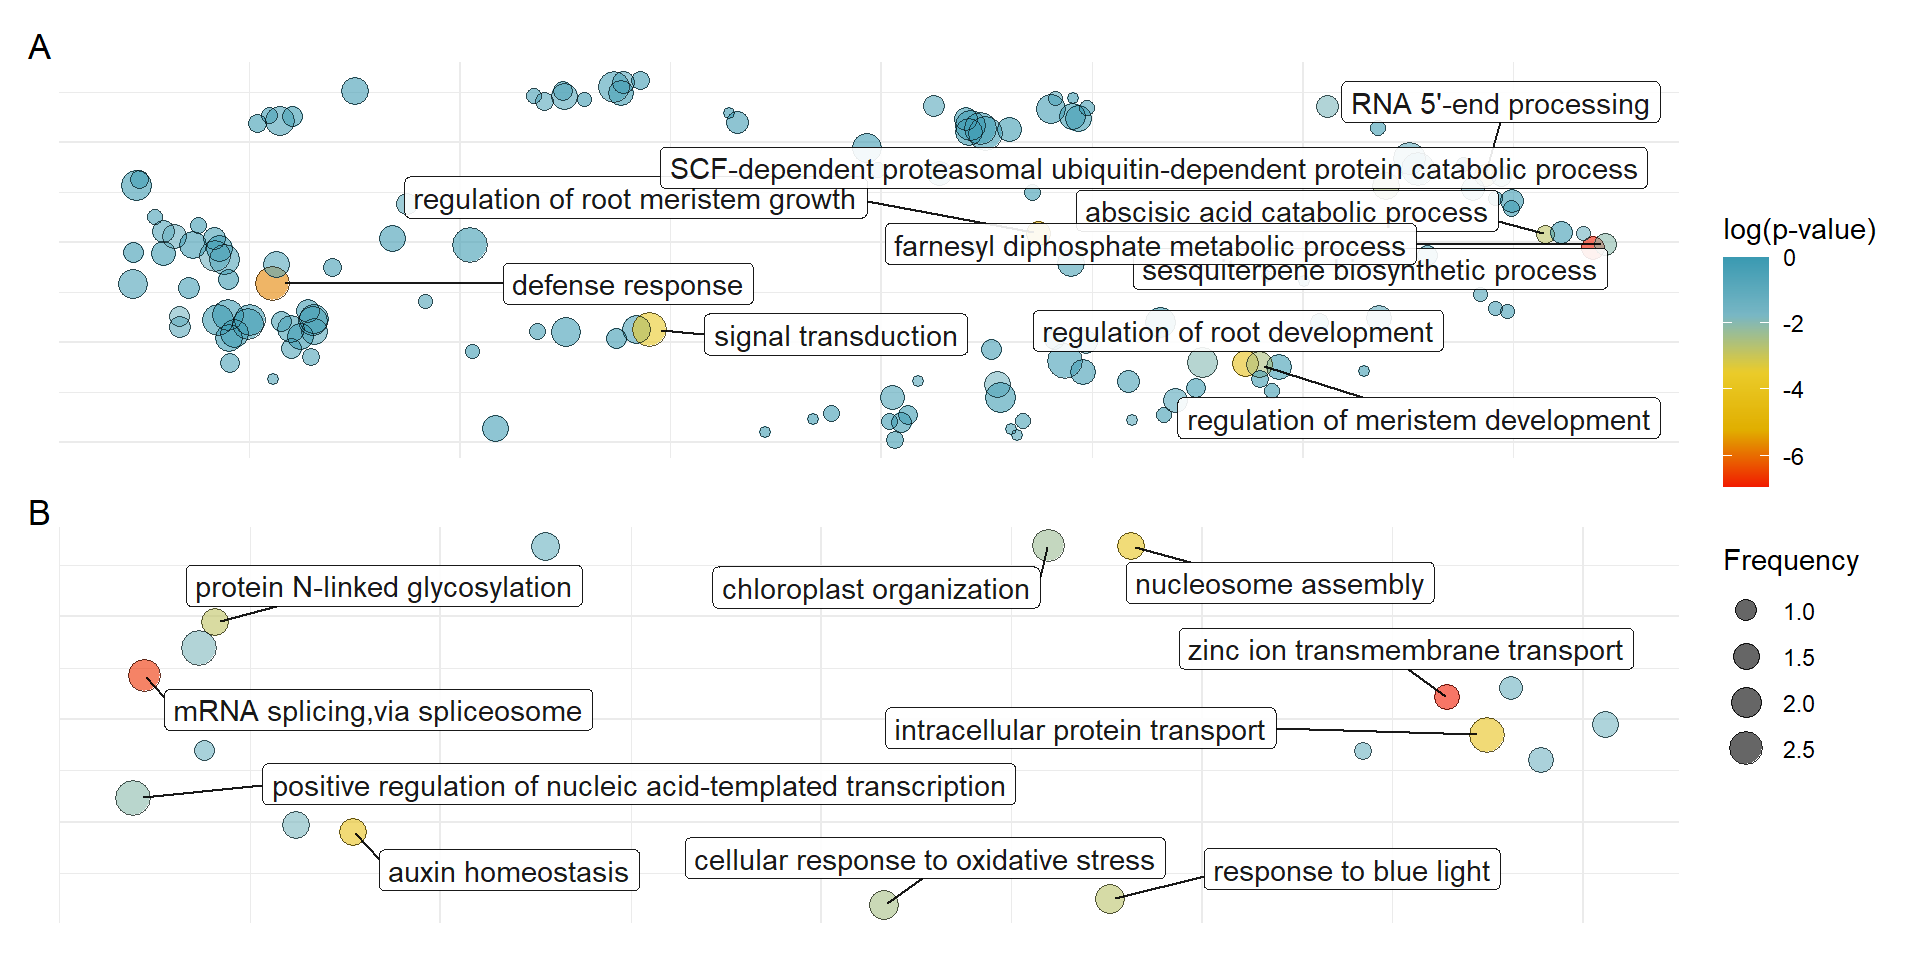
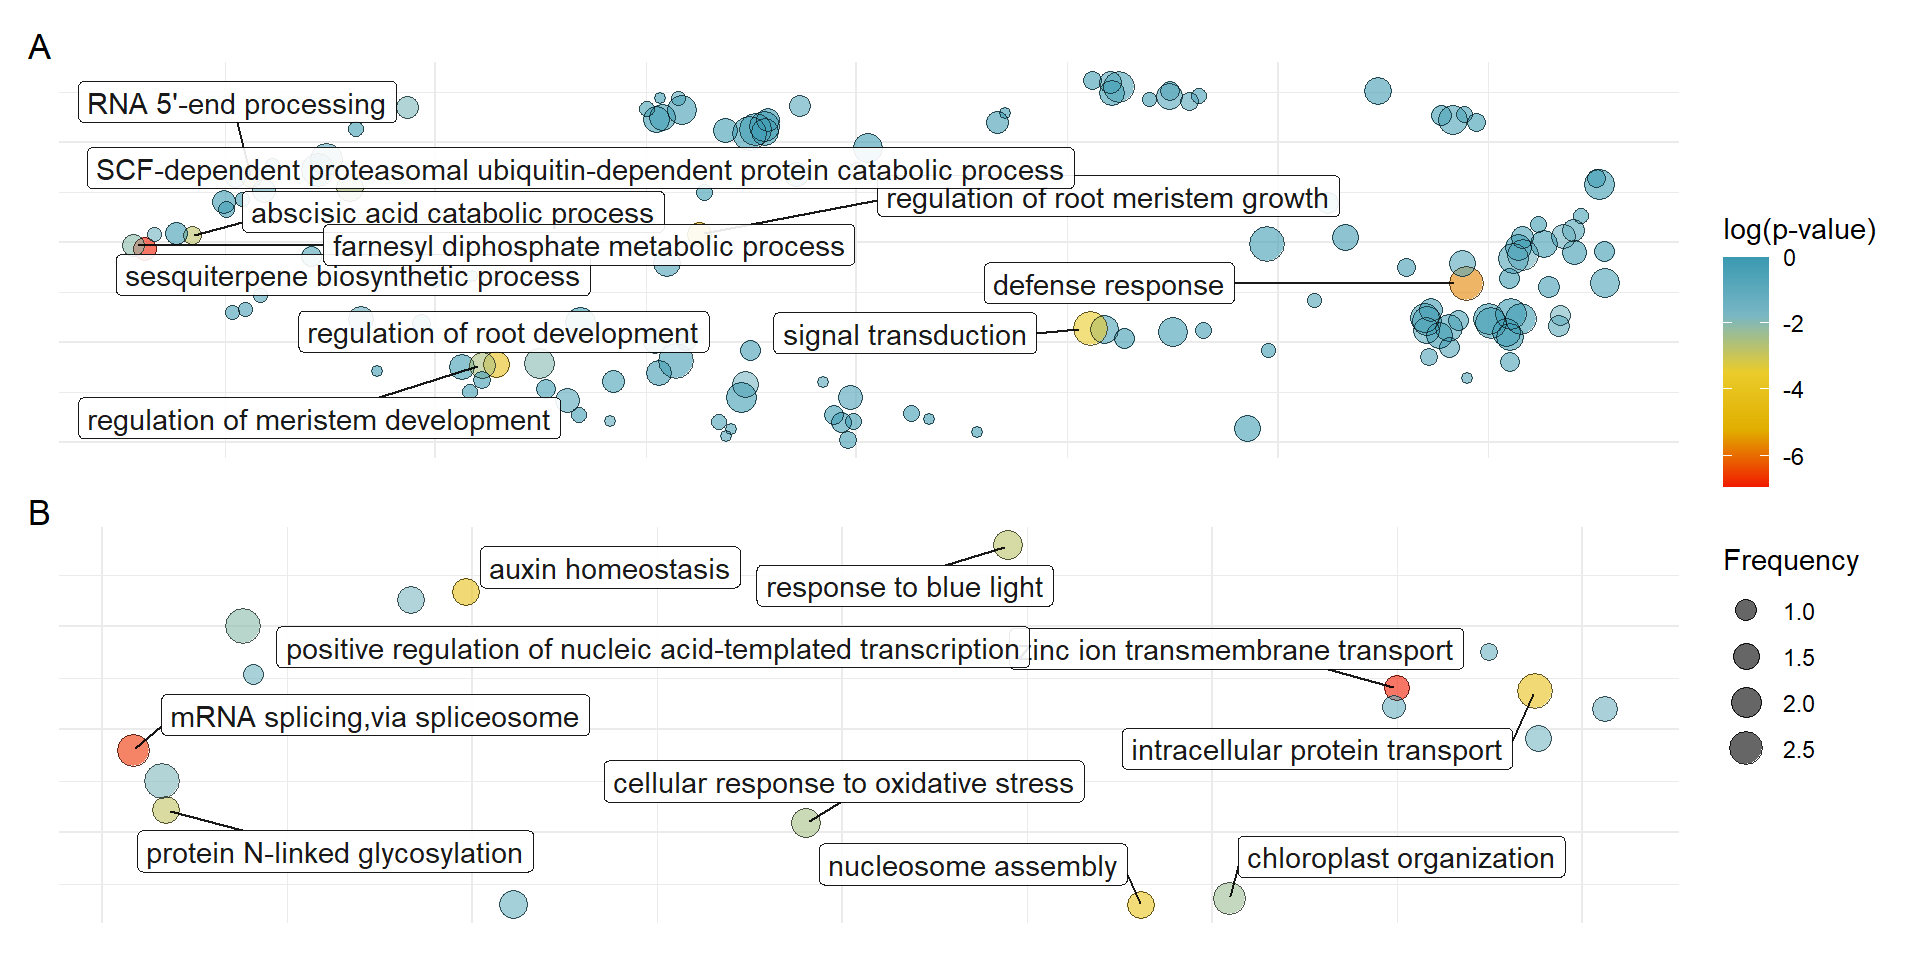
Build site.

Changed region(s): [[0.0312, 0.0625, 0.875, 0.4688], [0.0625, 0.5312, 0.8438, 0.9688]]

diff --git a/docs/GOenrichment.html b/docs/GOenrichment.html
@@ -385,7 +385,7 @@ div.tocify {
 <div class="tab-content">
 <div id="summary" class="tab-pane fade in active">
 <p>
-<strong>Last updated:</strong> 2022-02-25
+<strong>Last updated:</strong> 2022-02-28
 </p>
 <p>
 <strong>Checks:</strong> <span class="glyphicon glyphicon-ok text-success" aria-hidden="true"></span> 7 <span class="glyphicon glyphicon-exclamation-sign text-danger" aria-hidden="true"></span> 0
@@ -476,16 +476,16 @@ This reproducible <a href="http://rmarkdown.rstudio.com">R Markdown</a> analysis
 <div class="panel panel-default">
 <div class="panel-heading">
 <p class="panel-title">
-<a data-toggle="collapse" data-parent="#workflowr-checks" href="#strongRepositoryversionstrongahrefhttpsgithubcomphilippbayerAmphibolisPosidoniaComparisontree61c8f69445812d93a875620f86f58b0b40fb9e50targetblank61c8f69a"> <span class="glyphicon glyphicon-ok text-success" aria-hidden="true"></span> <strong>Repository version:</strong> <a href="https://github.com/philippbayer/Amphibolis_Posidonia_Comparison/tree/61c8f69445812d93a875620f86f58b0b40fb9e50" target="_blank">61c8f69</a> </a>
+<a data-toggle="collapse" data-parent="#workflowr-checks" href="#strongRepositoryversionstrongahrefhttpsgithubcomphilippbayerAmphibolisPosidoniaComparisontree581bebd80bed6cea5ebeefd7b3b988ae88ad7d66targetblank581bebda"> <span class="glyphicon glyphicon-ok text-success" aria-hidden="true"></span> <strong>Repository version:</strong> <a href="https://github.com/philippbayer/Amphibolis_Posidonia_Comparison/tree/581bebd80bed6cea5ebeefd7b3b988ae88ad7d66" target="_blank">581bebd</a> </a>
 </p>
 </div>
[2 lines of base64/hex data omitted]
 <div class="panel-body">
 <p>
 Great! You are using Git for version control. Tracking code development and connecting the code version to the results is critical for reproducibility.
 </p>
 <p>
-The results in this page were generated with repository version <a href="https://github.com/philippbayer/Amphibolis_Posidonia_Comparison/tree/61c8f69445812d93a875620f86f58b0b40fb9e50" target="_blank">61c8f69</a>. See the <em>Past versions</em> tab to see a history of the changes made to the R Markdown and HTML files.
+The results in this page were generated with repository version <a href="https://github.com/philippbayer/Amphibolis_Posidonia_Comparison/tree/581bebd80bed6cea5ebeefd7b3b988ae88ad7d66" target="_blank">581bebd</a>. See the <em>Past versions</em> tab to see a history of the changes made to the R Markdown and HTML files.
 </p>
 <p>
 Note that you need to be careful to ensure that all relevant files for the analysis have been committed to Git prior to generating the results (you can use <code>wflow_publish</code> or <code>wflow_git_commit</code>). workflowr only checks the R Markdown file, but you know if there are other scripts or data files that it depends on. Below is the status of the Git repository when the results were generated:
@@ -496,63 +496,6 @@ Ignored files:
     Ignored:    .Rproj.user/
     Ignored:    analysis/OTT.nb.html
     Ignored:    analysis/plotRgenes.nb.html
-
-Untracked files:
-    Untracked:  output/GO_results_genes_in_Aquatics_NOT_Seagrasses_NOT_Terrestrials.csv
-    Untracked:  output/GO_results_genes_in_Aquatics_NOT_Seagrasses_NOT_Terrestrials.csv.png
-    Untracked:  output/GO_results_genes_in_Aquatics_and_Seagrasses_NOT_Terrestrials.csv
-    Untracked:  output/GO_results_genes_in_Aquatics_and_Seagrasses_NOT_Terrestrials.csv.png
-    Untracked:  output/GO_results_genes_in_Seagrasses_NOT_Aquatics_NOT_Terrestrials.csv
-    Untracked:  output/GO_results_genes_in_Seagrasses_NOT_Aquatics_NOT_Terrestrials.csv.png
-    Untracked:  output/GO_results_genes_in_Terrestrials_NOT_Aquatics_NOT_Seagrasses.csv
-    Untracked:  output/GO_results_genes_in_Terrestrials_NOT_Aquatics_NOT_Seagrasses.csv.png
-    Untracked:  output/GO_results_genes_lost_A_antarctica_not_other_seagrasses.csv
-    Untracked:  output/GO_results_genes_lost_A_antarctica_not_other_seagrasses.csv.png
-    Untracked:  output/GO_results_genes_lost_P_australis_not_other_seagrasses.csv
-    Untracked:  output/GO_results_genes_lost_P_australis_not_other_seagrasses.csv.png
-    Untracked:  output/GO_results_genes_lost_Z_marina_not_other_seagrasses.csv
-    Untracked:  output/GO_results_genes_lost_Z_marina_not_other_seagrasses.csv.png
-    Untracked:  output/GO_results_genes_lost_Z_muelleri_not_other_seagrasses.csv
-    Untracked:  output/GO_results_genes_lost_Z_muelleri_not_other_seagrasses.csv.png
-    Untracked:  output/GO_results_genes_only_A_antarctica_not_other_seagrasses.csv
-    Untracked:  output/GO_results_genes_only_P_australis_not_other_seagrasses.csv
-    Untracked:  output/GO_results_genes_only_P_australis_not_other_seagrasses.csv.png
-    Untracked:  output/GO_results_genes_only_Z_marina_not_other_seagrasses.csv
-    Untracked:  output/GO_results_genes_only_Z_marina_not_other_seagrasses.csv.png
-    Untracked:  output/GO_results_genes_only_Z_muelleri_not_other_seagrasses.csv
-    Untracked:  output/GO_results_genes_only_Z_muelleri_not_other_seagrasses.csv.png
-    Untracked:  output/GO_results_genes_union_Aquatics_and_Seagrasses_NOT_Terrestrials.csv
-    Untracked:  output/GO_results_genes_union_Aquatics_and_Seagrasses_NOT_Terrestrials.csv.png
-    Untracked:  output/GO_results_terrestrials_vs_union_aquatics_seagrasses.png
-    Untracked:  output/Lost_GO_terms_in_five_species.PlantSpecific.xlsx
-    Untracked:  output/Lost_GO_terms_in_five_species.xlsx
-
-Unstaged changes:
-    Deleted:    data/Lost_GO_terms_in_five_species.PlantSpecific.xlsx
-    Deleted:    data/Lost_GO_terms_in_five_species.xlsx
-    Modified:   data/Lost_present_gene_lists/Genes_lost_in_A_antarctica_not_other_seagrasses.txt
-    Modified:   data/Lost_present_gene_lists/Genes_lost_in_P_australis_not_other_seagrasses.txt
-    Modified:   data/Lost_present_gene_lists/Genes_lost_in_Z_marina_not_other_seagrasses.txt
-    Modified:   data/Lost_present_gene_lists/Genes_lost_in_Z_muelleri_not_other_seagrasses.txt
-    Modified:   data/arabidopsis_gene_level_comparison.xlsx
-    Modified:   data/arabidopsis_gene_level_comparison_only_losts.xlsx
-    Modified:   data/arabidopsis_gene_level_counts.xlsx
-    Deleted:    data/shared_lost_genes.xlsx
-    Deleted:    output/lost_in_amphi_GO.txt.png
-    Deleted:    output/lost_in_posi_GO.txt.png
-    Deleted:    output/lost_in_zmar_GO.txt.png
-    Deleted:    output/lost_in_zmuel_GO.txt.png
-    Deleted:    output/missing_amphi_vs_all_GO.txt.png
-    Deleted:    output/missing_aquatics_GO.txt.png
-    Deleted:    output/missing_arabidopsis_vs_all_GO.txt.png
-    Deleted:    output/missing_posi_vs_all_GO.txt.png
-    Deleted:    output/missing_seagrasses_GO.txt.png
-    Deleted:    output/missing_zmar_vs_all_GO.txt.png
-    Deleted:    output/missing_zmuel_vs_all_GO.txt.png
-    Deleted:    output/only_in_posi_GO.txt.png
-    Deleted:    output/only_in_zmar_GO.txt.png
-    Deleted:    output/only_in_zmuel_GO.txt.png
-    Deleted:    output/only_seagrasses_GO.txt.png
 
 </code></pre>
 <p>
@@ -591,6 +534,57 @@ Message
 </tr>
 </thead>
 <tbody>
+<tr>
+<td>
+Rmd
+</td>
+<td>
+<a href="https://github.com/philippbayer/Amphibolis_Posidonia_Comparison/blob/581bebd80bed6cea5ebeefd7b3b988ae88ad7d66/analysis/GOenrichment.Rmd" target="_blank">581bebd</a>
+</td>
+<td>
+Philipp Bayer
+</td>
+<td>
+2022-02-28
+</td>
+<td>
+accidentally did not display REVIGO code
+</td>
+</tr>
+<tr>
+<td>
+html
+</td>
+<td>
+<a href="https://rawcdn.githack.com/philippbayer/Amphibolis_Posidonia_Comparison/6eeb3edf11291086ce3863ee1a5eb993c852d6d3/docs/GOenrichment.html" target="_blank">6eeb3ed</a>
+</td>
+<td>
+Philipp Bayer
+</td>
+<td>
+2022-02-25
+</td>
+<td>
+Add missing files
+</td>
+</tr>
+<tr>
+<td>
+html
+</td>
+<td>
+<a href="https://rawcdn.githack.com/philippbayer/Amphibolis_Posidonia_Comparison/9ca6c942cd424a7ffc73327b1bb04c256861a84e/docs/GOenrichment.html" target="_blank">9ca6c94</a>
+</td>
+<td>
+Philipp Bayer
+</td>
+<td>
+2022-02-25
+</td>
+<td>
+Build site.
+</td>
+</tr>
 <tr>
 <td>
 Rmd
@@ -1159,6 +1153,53 @@ embedded nuls
 Warning in readChar(filename, file.info(filename)$size): truncating string with
 embedded nuls</code></pre>
 <p>OK we have a list with all results in a big list. Now we can plot!</p>
+<pre class="r"><code># lots of warnings and messages here so I&#39;m hiding these
+plot_list &lt;- list()
+for (f in names(results_list)) {
+  dat &lt;- results_list[[f]]
+  if(nrow(dat) == 0) {next}
+  
+  names(dat) &lt;- c(&quot;term_ID&quot;,&quot;description&quot;,&quot;frequency&quot;, &#39;plot_X&#39;, &#39;plot_Y&#39;, &#39;log_size&#39;, &#39;value&#39;, &#39;uniqueness&#39;, &#39;dispensability&#39;, &#39;eliminated&#39;, &#39;representative&#39;)
+  one.data &lt;- dat
+  if (one.data[1,] == &#39;&lt;html&gt;&#39;) {next} # some datasets result in error
+  one.data &lt;- one.data [(one.data$plot_X != &quot;null&quot; &amp; one.data$plot_Y != &quot;null&quot;) &amp; (! is.na(one.data$frequency)) &amp; (one.data$value != &#39;null&#39;), ];
+  one.data &lt;- suppressMessages(type_convert(one.data)) # guess data types, but also: shush
+  top_ten_values &lt;- one.data %&gt;% arrange(value) %&gt;% head(10) %&gt;% pull(term_ID) 
+  one.data &lt;- one.data %&gt;% mutate(description2 = case_when(
+    term_ID %in% top_ten_values ~ description, 
+    TRUE ~ &#39;&#39;))
+  p1 &lt;-
+    ggplot(data = one.data, aes(plot_X, plot_Y, label = description2)) +
+    geom_point(aes(colour = value, size = log_size), alpha = I(0.6)) +
+    scale_size_area() +
+    scale_colour_gradientn(colours = rev(wes_palette(&quot;Zissou1&quot;, 100, type = &quot;continuous&quot;)), 
+                           limits = c(min(one.data$value), 0)) +
+    geom_point(
+      aes(plot_X, plot_Y, size = log_size),
+      shape = 21,
+      fill = &quot;transparent&quot;,
+      colour = I (alpha (&quot;black&quot;, 0.6))
+    ) +
+    scale_size_area() +
+    geom_label_repel(max.overlaps = Inf, box.padding = 0.5,
+                     aes(point.size = log_size), alpha=0.9) +
+    theme_minimal() +
+    labs(color = &#39;log(p-value)&#39;,
+         size = &#39;Frequency&#39;) +
+    theme(
+      axis.text.x = element_blank(),
+      axis.ticks.x = element_blank(),
+      axis.text.y = element_blank(),
+      axis.ticks.y = element_blank(),
+      axis.title.x = element_blank(),
+      axis.title.y = element_blank()
+    ) +
+    NULL
+    #ggtitle(f)
+  
+  plot_list[[f]] &lt;- p1
+  
+}</code></pre>
 </div>
 <div id="making-supplementary-tables-for-the-revigo-results" class="section level1">
 <h1>Making Supplementary Tables for the REVIGO results</h1>
